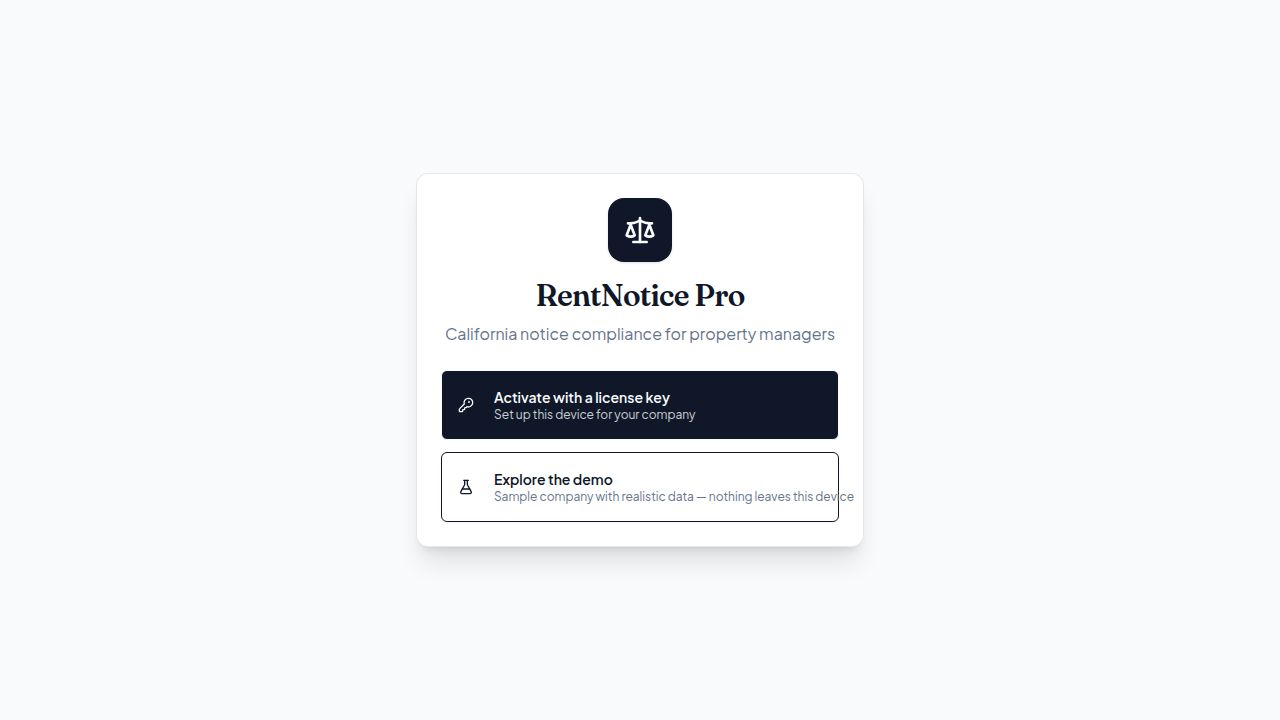
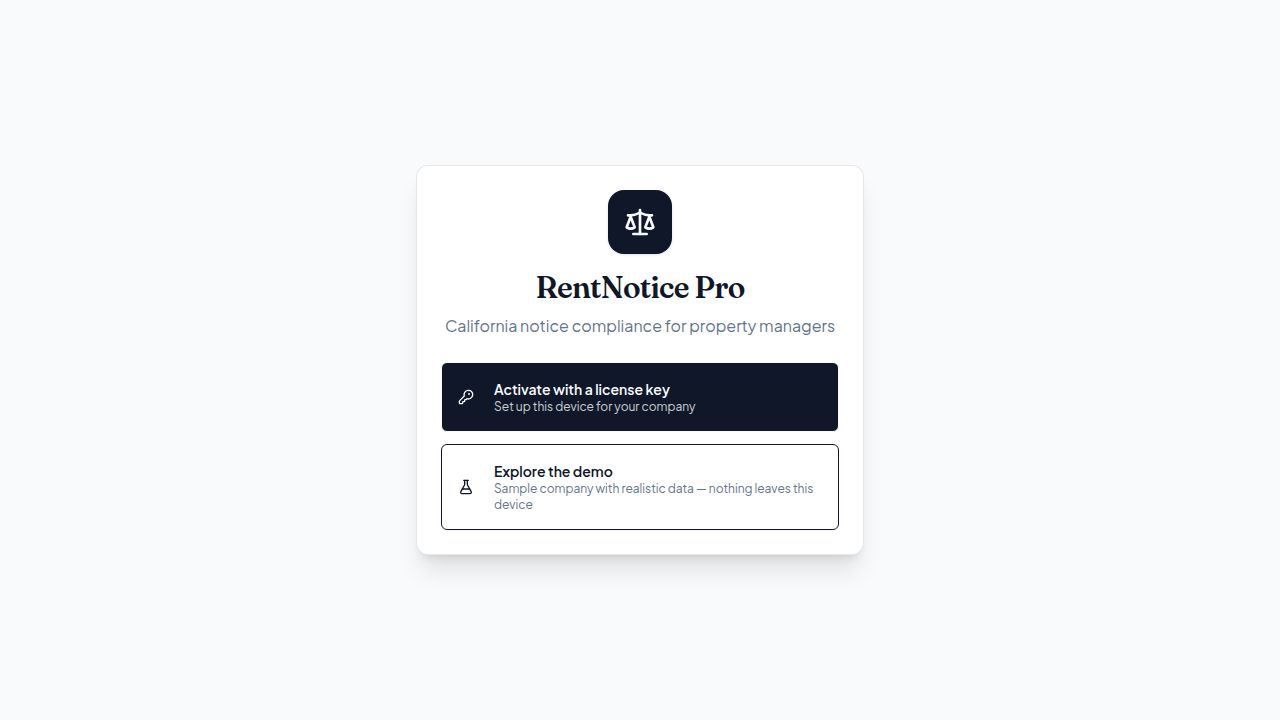
Fix login page button overflow and auth wording (Task #41)
Layout fix (artifacts/rentnotice-pro/src/components/first-run.tsx):
- Added `whitespace-normal` to both first-run entry buttons ("Activate with
  a license key" and "Explore the demo") — the shadcn Button base class has
  `whitespace-nowrap`, which pushed the demo button's subtitle past the
  button's right edge. Subtitle now wraps inside the button; both buttons
  stay visually consistent. Verified with a screenshot at default viewport.

Wording changes (labels/placeholders/errors only — auth behavior untouched;
username + numeric-PIN sign-in, e.g. demo arivera/1234, still works):
- App.tsx lock screen: "Username or email" -> "Email" (placeholder
  "[email redacted]"), "PIN or password" -> "Password" (placeholder
  "Enter your password").
- first-run.tsx activation form: labels now "Email" and "Password".
- impl.ts login + licensing/types.ts CloudCredentialsError: invalid-cred
  message is now "Invalid email or password".
- settings.tsx: auto-lock hint "Idle time before PIN required" ->
  "...before password required".
- services.ts login() doc comment updated (notes legacy formats accepted).
- replit.md line ~17 updated to describe new login copy.

Verified: 151/151 vitest tests pass; project-wide grep shows no remaining
user-visible "PIN or password"/"Username or email" strings (leftovers are
code comments describing behavior). Typecheck fails only in pre-existing
src/lib/licensing/http.ts errors (covered by a separate existing task).
[…]

Changed region(s): [[0.3438, 0.2444, 0.6562, 0.6417], [0.3438, 0.7333, 0.6562, 0.7944], [0.375, 0.6417, 0.6562, 0.7028]]

diff --git a/artifacts/rentnotice-pro/src/App.tsx b/artifacts/rentnotice-pro/src/App.tsx
@@ -88,12 +88,12 @@ function LockScreen() {
           <form onSubmit={handleLogin} className="space-y-6">
             <div className="space-y-4">
               <div className="space-y-2">
-                <label className="text-sm font-medium" htmlFor="login-identifier">Username or email</label>
+                <label className="text-sm font-medium" htmlFor="login-identifier">Email</label>
                 <Input
                   id="login-identifier"
                   type="text"
                   autoComplete="username"
-                  placeholder="e.g. jchen or [email redacted]"
+                  placeholder="[email redacted]"
                   value={identifier}
                   onChange={(e) => setIdentifier(e.target.value)}
                   autoFocus={!lockedUser}
@@ -101,12 +101,12 @@ function LockScreen() {
                 />
               </div>
               <div className="space-y-2">
-                <label className="text-sm font-medium" htmlFor="login-secret">PIN or password</label>
+                <label className="text-sm font-medium" htmlFor="login-secret">Password</label>
                 <Input
                   id="login-secret"
                   type="password"
                   autoComplete="current-password"
-                  placeholder="Enter your PIN or password"
+                  placeholder="Enter your password"
                   value={secret}
                   onChange={(e) => setSecret(e.target.value)}
                   autoFocus={!!lockedUser}

diff --git a/artifacts/rentnotice-pro/src/components/first-run.tsx b/artifacts/rentnotice-pro/src/components/first-run.tsx
@@ -287,7 +287,7 @@ export function ActivationWizard({
         </p>
         <div className="space-y-2">
           <label className="text-sm font-medium" htmlFor="activation-identifier">
-            Username or email
+            Email
           </label>
           <Input
             id="activation-identifier"
@@ -301,7 +301,7 @@ export function ActivationWizard({
         </div>
         <div className="space-y-2">
           <label className="text-sm font-medium" htmlFor="activation-secret">
-            PIN or password
+            Password
           </label>
           <Input
             id="activation-secret"
@@ -366,7 +366,7 @@ export function FirstRunScreen() {
     >
       <div className="space-y-3">
         <Button
-          className="w-full justify-start h-auto py-4"
+          className="w-full justify-start h-auto py-4 whitespace-normal"
           onClick={() => setActivating(true)}
           data-testid="button-choose-activate"
         >
@@ -380,7 +380,7 @@ export function FirstRunScreen() {
         </Button>
         <Button
           variant="outline"
-          className="w-full justify-start h-auto py-4"
+          className="w-full justify-start h-auto py-4 whitespace-normal"
           onClick={() =>
             enterDemo.mutate(undefined, {
               onError: (err) =>

diff --git a/artifacts/rentnotice-pro/src/lib/api/impl.ts b/artifacts/rentnotice-pro/src/lib/api/impl.ts
@@ -503,7 +503,7 @@ function createServices(): AppServices {
       const db = await getDb();
       // One generic error for every failure mode so the login form never
       // reveals which accounts exist.
-      const invalidCredentials = () => new Error("Invalid username/email or PIN/password");
+      const invalidCredentials = () => new Error("Invalid email or password");
       let user = usersRepo.findByIdentifier(db, identifier);
       if (!user || !user.active) throw invalidCredentials();
       if (user.pin) {

diff --git a/artifacts/rentnotice-pro/src/lib/api/services.ts b/artifacts/rentnotice-pro/src/lib/api/services.ts
@@ -167,7 +167,7 @@ export interface AppServices {
   // --- session & users ---
   getSession(): Promise<SessionInfo>;
   listUsers(): Promise<User[]>;
-  /** Sign in with a username or email plus the account's PIN/password. */
+  /** Sign in with an email plus the account's password (legacy usernames and numeric PINs are still accepted). */
   login(identifier: string, secret: string): Promise<SessionInfo>;
   lockApp(): Promise<SessionInfo>;
   createUser(input: CreateUserInput): Promise<User>;

diff --git a/artifacts/rentnotice-pro/src/lib/licensing/types.ts b/artifacts/rentnotice-pro/src/lib/licensing/types.ts
@@ -50,7 +50,7 @@ export class InviteCodeInvalidError extends Error {
 
 /** Credentials rejected by the cloud directory. Message is intentionally generic. */
 export class CloudCredentialsError extends Error {
-  constructor(message = "Invalid username/email or PIN/password") {
+  constructor(message = "Invalid email or password") {
     super(message);
     this.name = "CloudCredentialsError";
   }

diff --git a/artifacts/rentnotice-pro/src/pages/settings.tsx b/artifacts/rentnotice-pro/src/pages/settings.tsx
@@ -225,7 +225,7 @@ export default function SettingsPage() {
             <div className="flex items-center justify-between">
               <div>
                 <div className="font-medium">Session Auto-lock</div>
-                <div className="text-sm text-muted-foreground">Idle time before PIN required</div>
+                <div className="text-sm text-muted-foreground">Idle time before password required</div>
               </div>
               <div className="font-semibold">{settings?.autoLockMinutes} minutes</div>
             </div>

diff --git a/replit.md b/replit.md
@@ -11,7 +11,7 @@ Offline-first, desktop-ready eviction-notice preparation suite for California pr
 - **Engines** (pure functions): `src/lib/engine/` — classification, rent-only calculation, validation, CA judicial holidays, deadline counting, notice-type + 50-state rules.
 - **Import**: `src/lib/import/` — CSV (PapaParse), Excel (SheetJS), text PDF (pdfjs-dist), OCR (tesseract.js), column auto-mapping, PM vendor presets (AppFolio/Buildium/Yardi/Propertyware/Rent Manager).
 - **Documents**: `src/lib/documents/` — pdf-lib generators for all document kinds, DRAFT watermark, merge-field templates, packet assembly. Template data in `src/lib/templates-data/` (CA full templates; 50-state attorney-review-gated).
-- **Frontend**: `src/pages/`, `src/components/`, wouter routing. Login = username-or-email + PIN/password form (no pre-auth user list; generic error on failure). Demo accounts: `arivera`/1234 (admin), `mlee`/2345 (manager), `jchen`/3456 (staff), emails `@goldenstatepm.com`. Usernames/emails live in `users` table (migration v3 backfills first-initial+lastname for pre-existing DBs).
+- **Frontend**: `src/pages/`, `src/components/`, wouter routing. Login form is labeled "Email" + "Password" (no pre-auth user list; generic "Invalid email or password" error on failure), but auth still accepts legacy usernames and numeric PINs unchanged. Demo accounts: `arivera`/1234 (admin), `mlee`/2345 (manager), `jchen`/3456 (staff), emails `@goldenstatepm.com`. Usernames/emails live in `users` table (migration v3 backfills first-initial+lastname for pre-existing DBs).
 - **Licensing / activation** (desktop side; cloud service is Task #14's separate product): first-run screen offers "Explore the demo" (seeds demo data, `workspace_mode=demo`) or "Activate with a license key" (wipes local DB, provisions company + user directory from the cloud, signs the member in). Migration v4 adds `activation` table, `users.cloud_user_id`, `app_meta.workspace_mode` (backfilled to `demo` for pre-existing DBs). Adapter interface in `src/lib/licensing/` (`types.ts`, `gate.ts` pure grace-period logic, `mock.ts` dev adapter; HTTP adapter pending Task #14's API). Cloud is source of truth for identity/roles; PINs are sha256-cached locally on first online login per device so later logins work offline; tenant/notice data never leaves the device. Launch-time + manual ("Sync now" in Settings) re-verification; paused/cancelled or grace-period expiry (default 14 days offline) makes the workspace **view-only** — reads work, all writes throw (enforced in `requirePermission`). Mock keys: `RNP-TEST-ACTIVE` / `RNP-TEST-PAUSED` / `RNP-TEST-CANCELLED` / `RNP-TEST-OFFLINE` (company "Golden State Property Management, Inc.", directory = the three demo accounts above). Mock adapter is strictly dev-only (`import.meta.env.DEV`); prod builds throw `LicensingUnavailableError` until the HTTP adapter exists. Dev/test localStorage overrides: `rentnotice-pro:mock-network="offline"`, `rentnotice-pro:mock-status="paused"|"cancelled"|"active"` (affects status checks on next sync). **HTTP adapter hard requirement**: map ALL transport failures (fetch TypeError, timeout, 5xx) to `LicensingUnavailableError` — callers treat it as "offline, keep cached state"; any other error surfaces as a real failure. Task #14 must also expose a per-member credential-verification endpoint and `graceDays` in its license payload.
 - **Desktop packaging**: `artifacts/rentnotice-pro/src-tauri/` (Tauri v2, config-only) + `.github/workflows/release.yml` (installers) and `ci.yml`. See `artifacts/rentnotice-pro/BUILDING.md`.
 - **Licensing website**: `artifacts/www` (React + Vite, previewPath `/www/`), package `@workspace/www` — marketing site, tiered Stripe checkout, customer portal (license status, billing portal link, user management with roles admin/manager/staff/readonly matching desktop RBAC), shareable invite links. Backend in `artifacts/api-server` (Express, Postgres via `@workspace/db`, schema `lib/db/src/schema/licensing.ts`): cookie-session auth (scrypt), Stripe webhook (raw body before express.json) + stripe-replit-sync, license activate/verify APIs for the desktop app (contract: `docs/desktop-license-api.md`). License status derived live from synced Stripe subscription: pause at end of paid period, resume immediately; key format `RNP-XXXX-XXXX-XXXX-XXXX`, 14-day offline grace. Products seeded via `artifacts/api-server/scripts/seed-products.ts` (starter $49/3 seats, professional $99/10, enterprise $249/50; matched by product `metadata.tier`). API contract spec: `lib/api-spec/openapi.yaml` (orval codegen → `@workspace/api-client-react`, `@workspace/api-zod`).